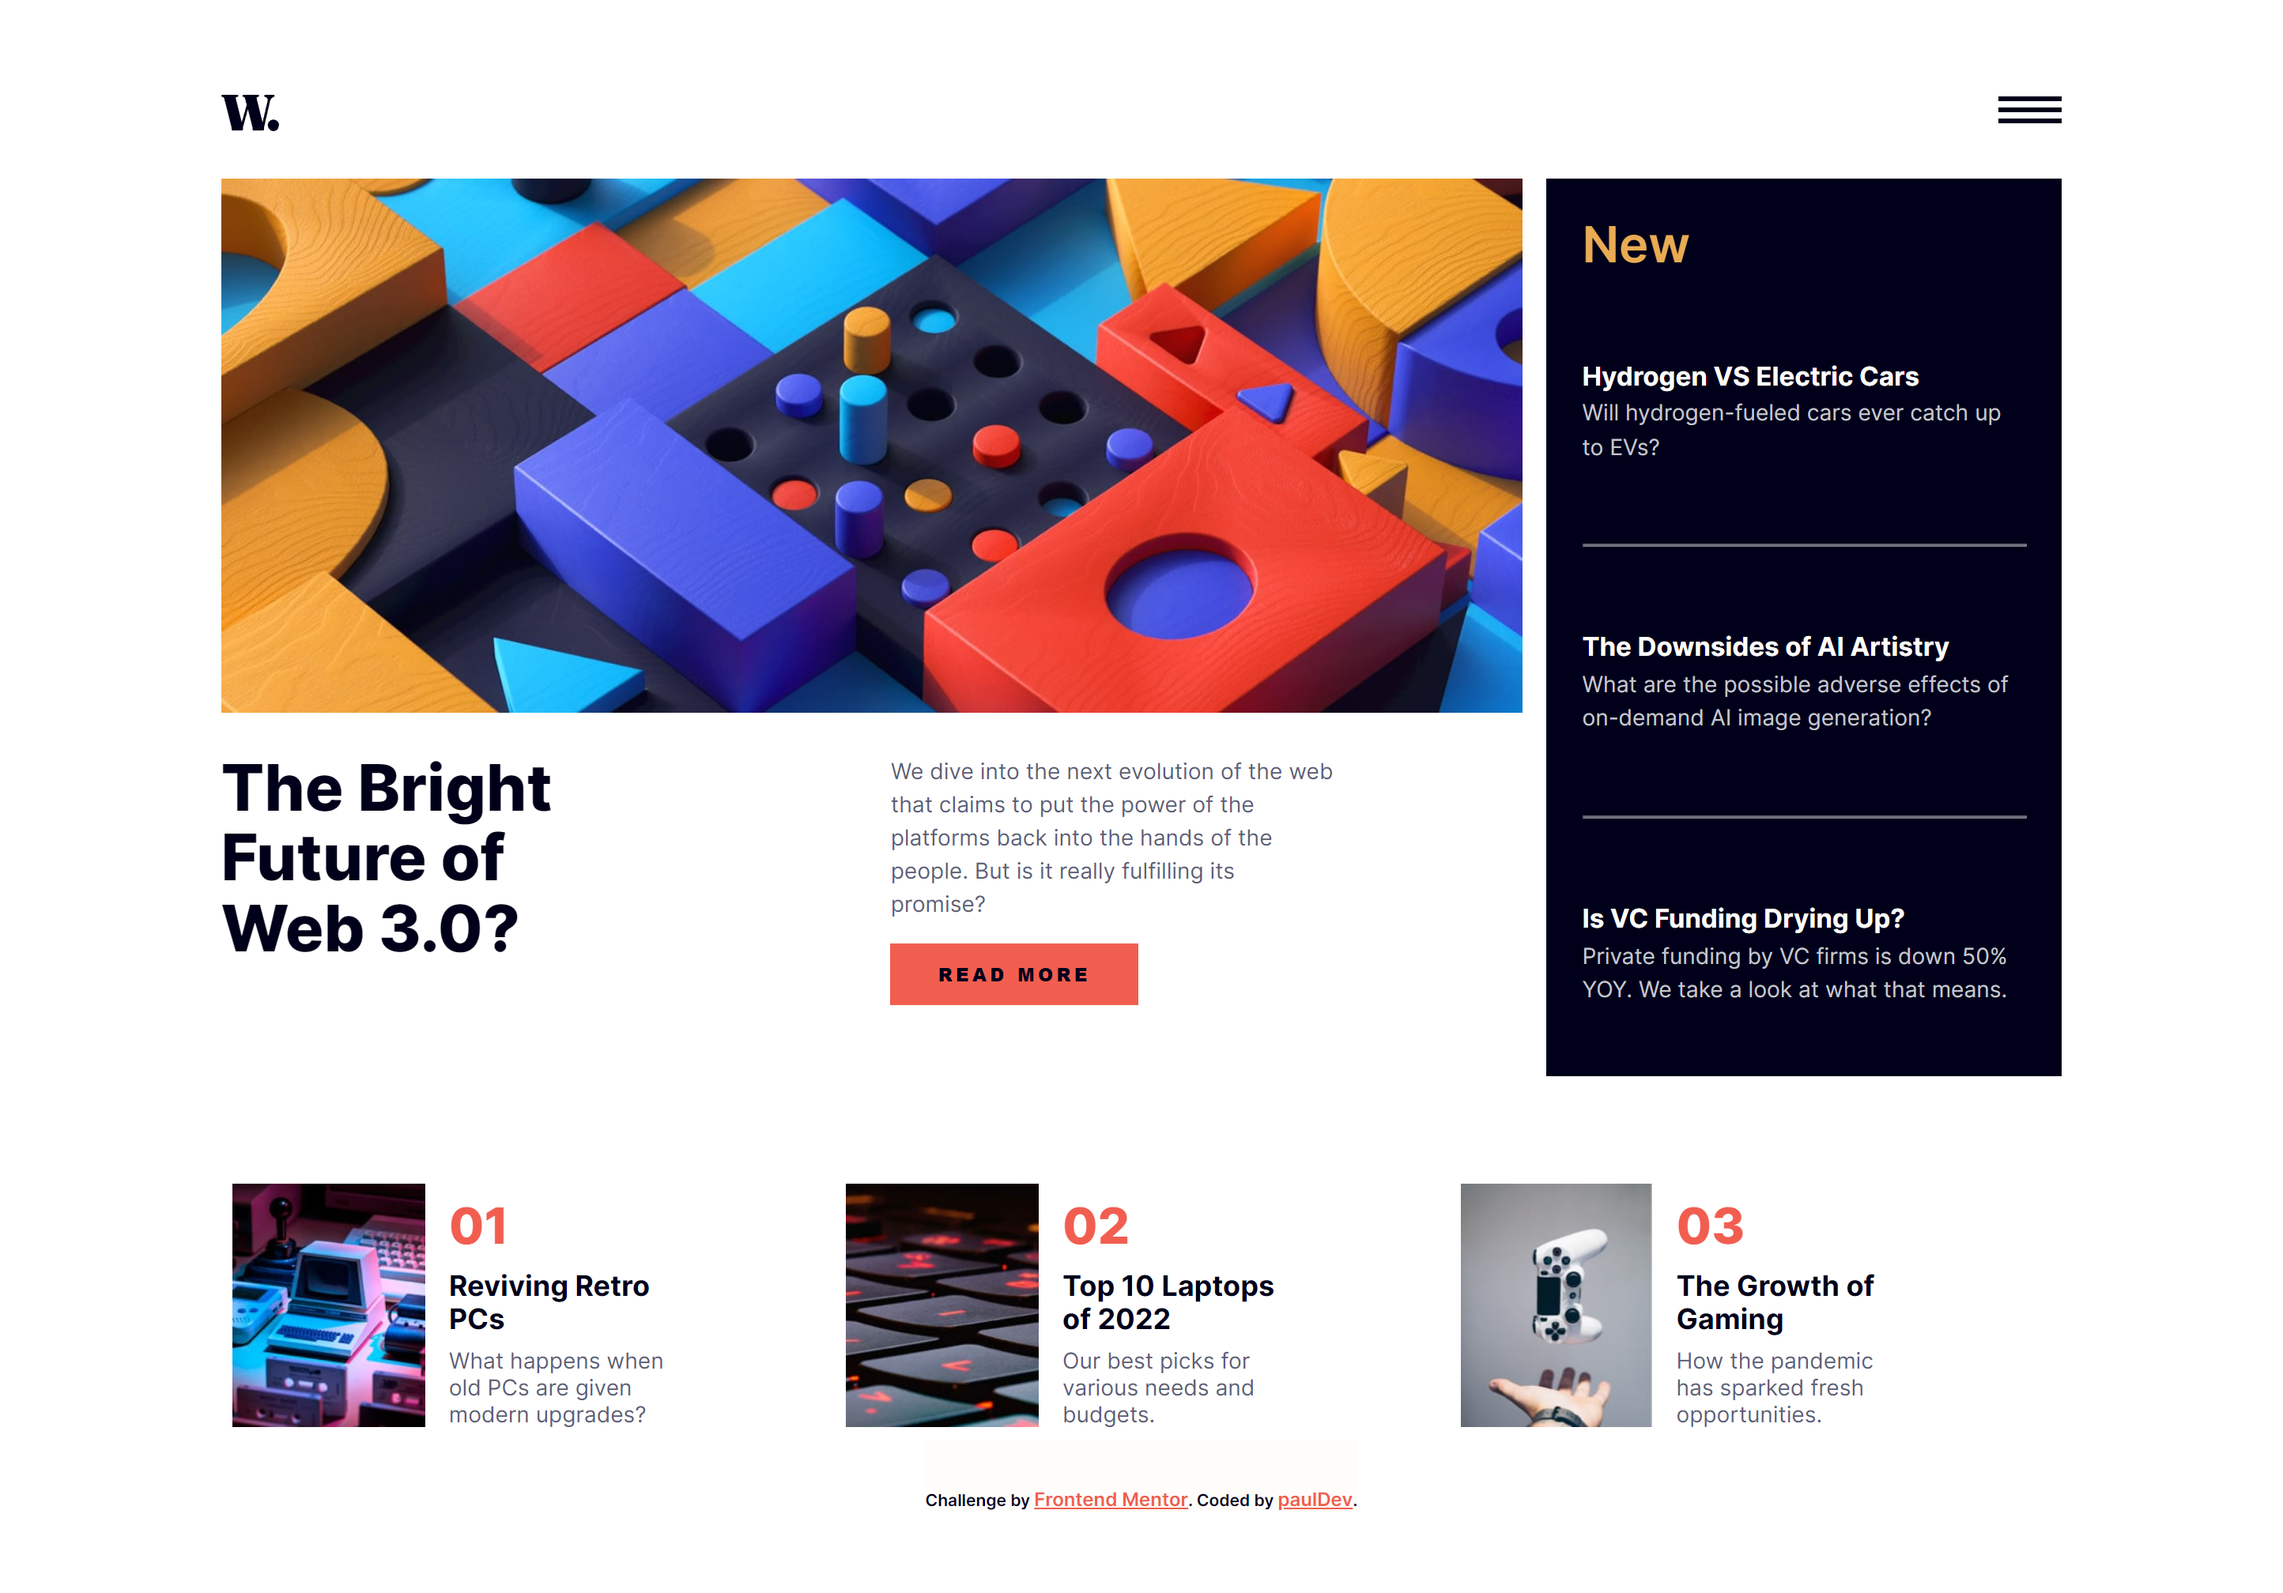
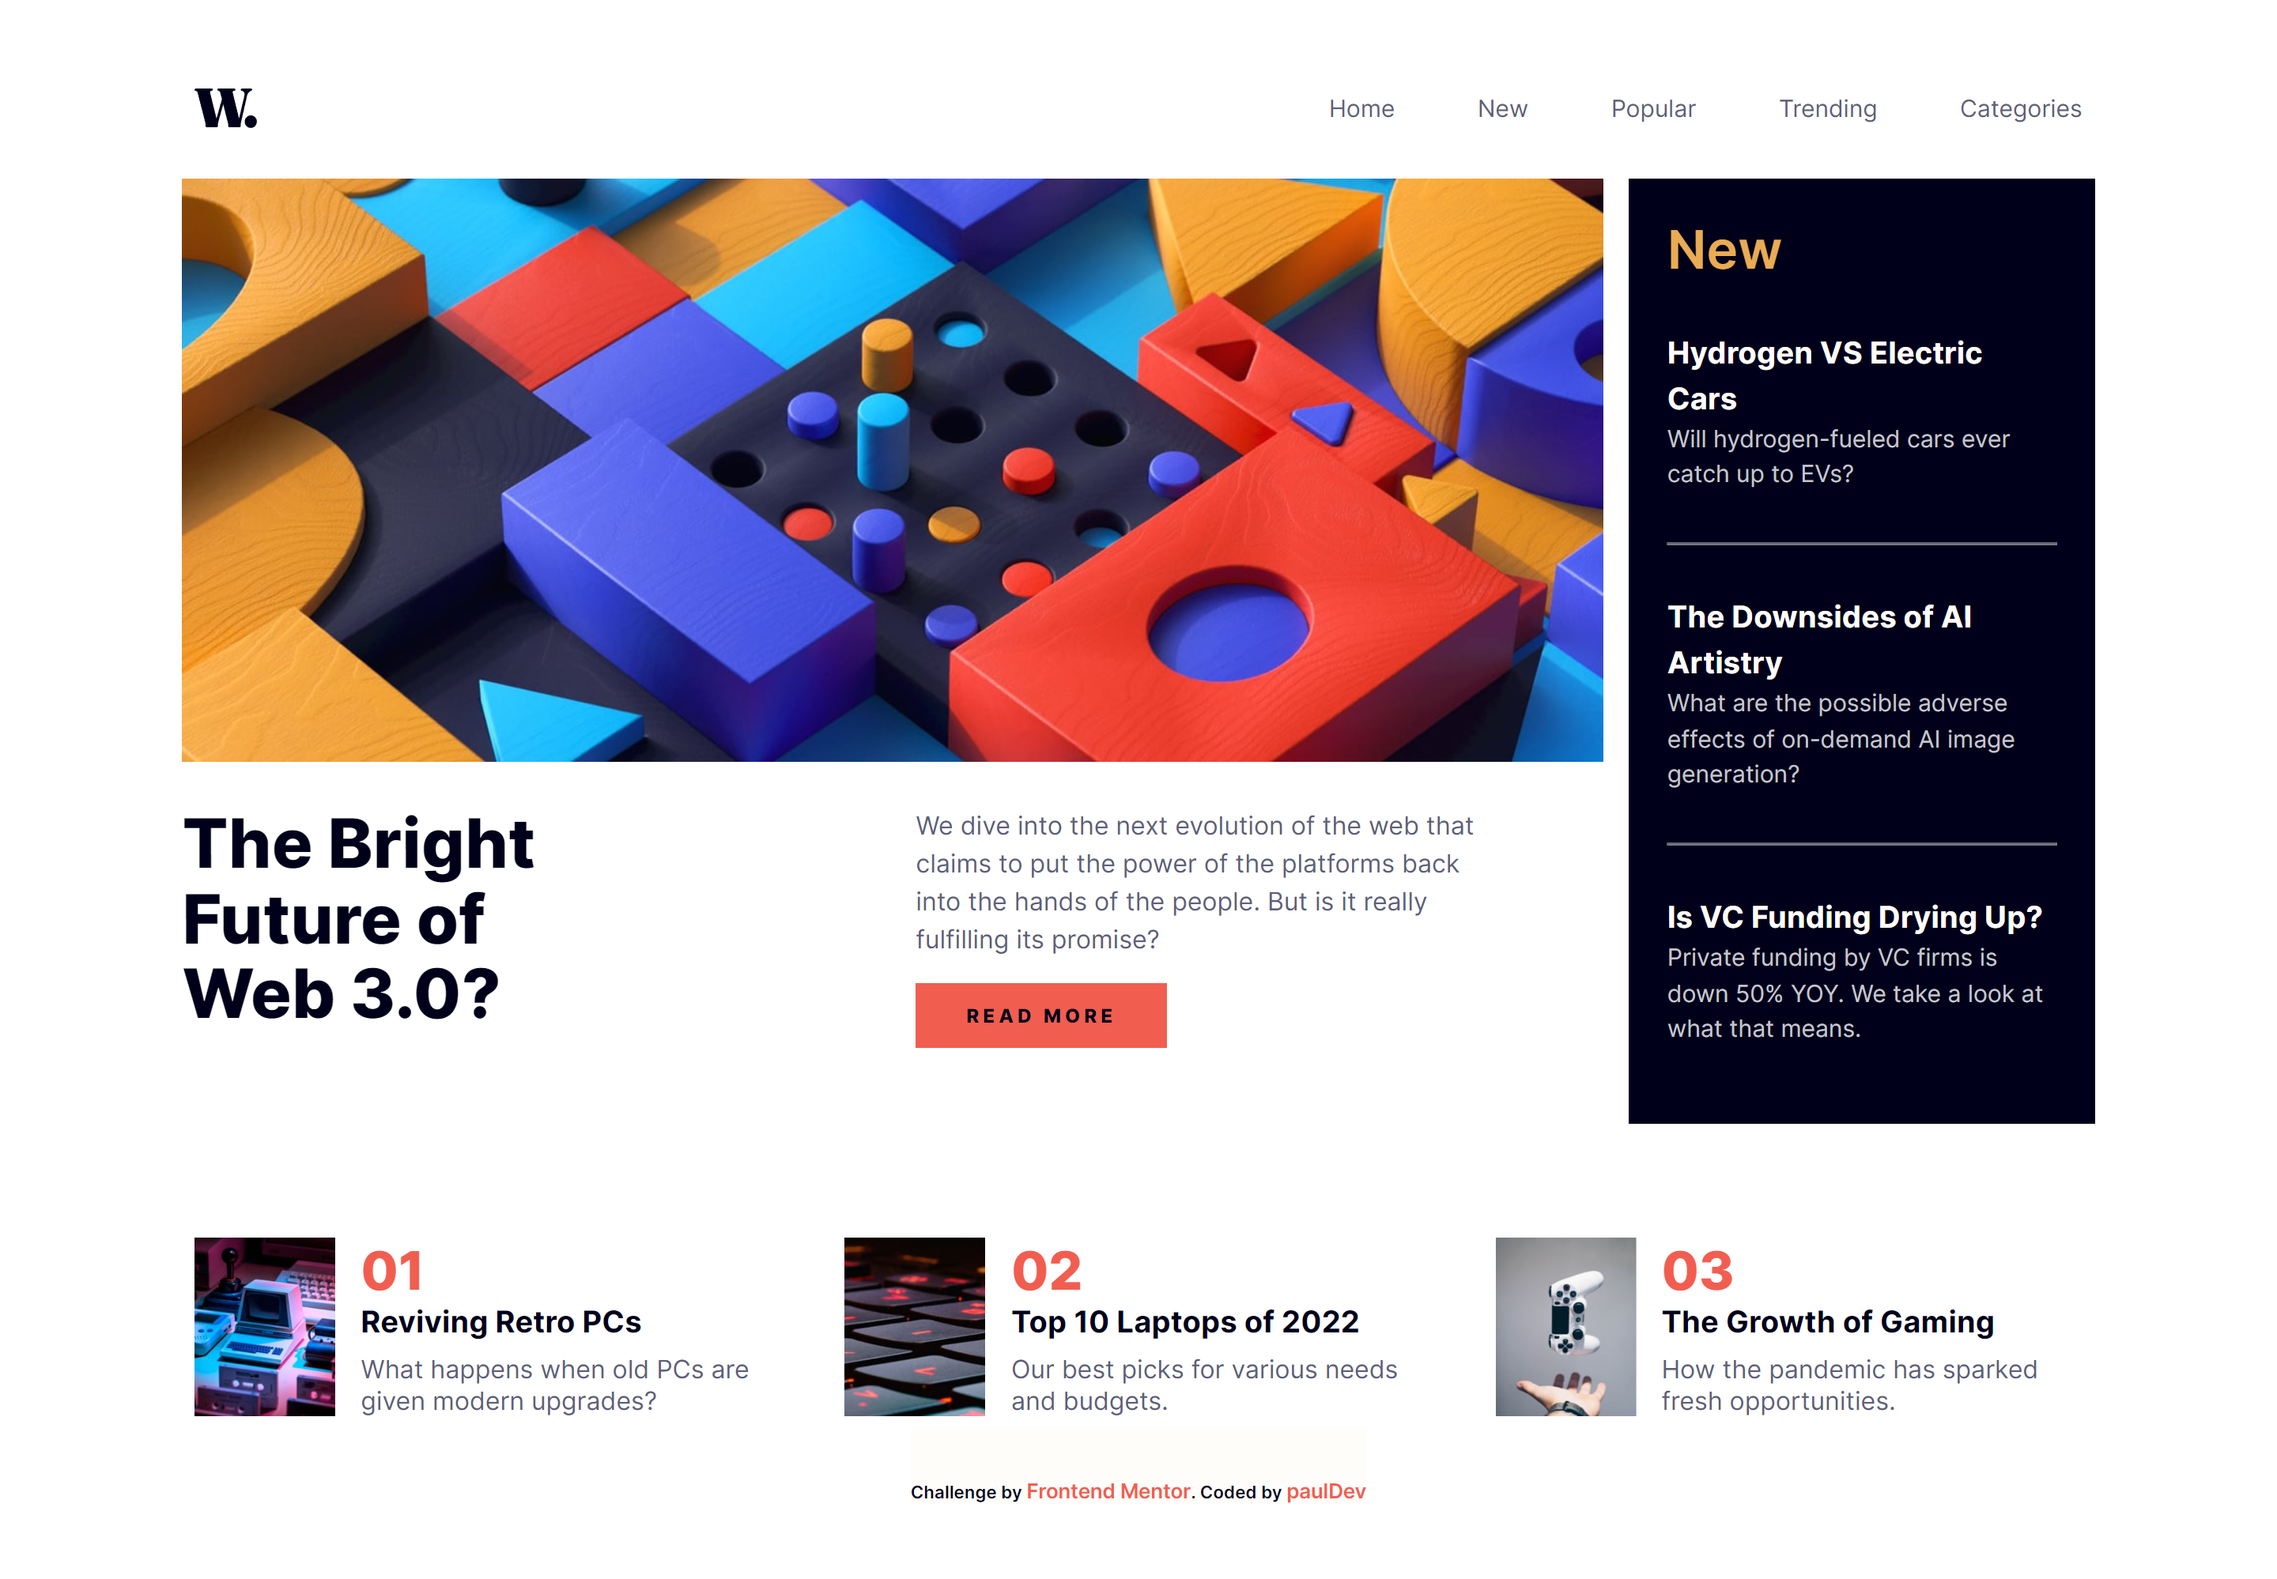
completed nav, spent time on accessibility and semantics optimisation, improved responsibility, would love feedback

diff --git a/index.html b/index.html
@@ -24,10 +24,20 @@
     <script src="main.js" defer></script>
   </head>
   <body>
-    <div class="overlay"></div>
+    <div class="overlay" aria-hidden="true"></div>
     <header role="banner">
-      <img src="assets/images/logo.svg" alt="Web 3" class="header-logo" />
-      <button class="menu_open_btn">
+      <img
+        src="assets/images/logo.svg"
+        alt="Website Logo"
+        class="header-logo"
+      />
+      <button
+        class="menu_open_btn"
+        aria-label="Open Menu"
+        aria-expanded="false"
+        aria-controls="mobile-nav"
+        aria-hidden="false"
+      >
         <img src="assets/images/icon-menu.svg" alt="Open Menu" />
       </button>
       <nav
@@ -44,8 +54,19 @@
         </ul>
       </nav>
 
-      <nav class="mobile-nav" role="navigation" aria-label="Mobile Navigation">
-        <button class="menu_close_btn">
+      <nav
+        id="mobile-nav"
+        class="mobile-nav"
+        role="navigation"
+        aria-hidden="true"
+        aria-label="Mobile Navigation"
+        aria-live="assertive"
+      >
+        <button
+          class="menu_close_btn"
+          aria-controls="mobile-nav"
+          aria-label="Close Menu"
+        >
           <img src="assets/images/icon-menu-close.svg" alt="Close Menu" />
         </button>
         <ul>
@@ -65,16 +86,21 @@
               srcset="assets/images/image-web-3-mobile.jpg"
               media="(max-width:40rem)"
             />
-            <img src="assets/images/image-web-3-desktop.jpg" alt="" />
+            <img
+              src="assets/images/image-web-3-desktop.jpg"
+              alt="The Bright Future of Web 3.0"
+            />
           </picture>
 
           <h1>The Bright Future of Web 3.0?</h1>
           <div class="main-article-content">
-            <q cite="#">
-              We dive into the next evolution of the web that claims to put the
-              power of the platforms back into the hands of the people. But is
-              it really fulfilling its promise?
-            </q>
+            <blockquote cite="#">
+              <p>
+                We dive into the next evolution of the web that claims to put
+                the power of the platforms back into the hands of the people.
+                But is it really fulfilling its promise?
+              </p>
+            </blockquote>
 
             <a href="#" class="main-article_readmore-btn">Read more</a>
           </div>
@@ -85,27 +111,33 @@
 
           <article role="article" class="new-article">
             <h3><a href="#">Hydrogen VS Electric Cars</a></h3>
-            <q cite="#">Will hydrogen-fueled cars ever catch up to EVs?</q>
+            <p>
+              <q cite="#">Will hydrogen-fueled cars ever catch up to EVs?</q>
+            </p>
           </article>
 
           <hr class="new-articles_separator" />
 
           <article role="article" class="new-article">
             <h3><a href="#">The Downsides of AI Artistry</a></h3>
-            <q cite="#">
-              What are the possible adverse effects of on-demand AI image
-              generation?
-            </q>
+            <p>
+              <q cite="#">
+                What are the possible adverse effects of on-demand AI image
+                generation?
+              </q>
+            </p>
           </article>
 
           <hr class="new-articles_separator" />
 
           <article role="article" class="new-article">
             <h3><a href="#">Is VC Funding Drying Up?</a></h3>
-            <q cite="#">
-              Private funding by VC firms is down 50% YOY. We take a look at
-              what that means.
-            </q>
+            <p>
+              <q cite="#">
+                Private funding by VC firms is down 50% YOY. We take a look at
+                what that means.
+              </q>
+            </p>
           </article>
         </div>
 
@@ -115,11 +147,13 @@
             <div class="top3-article-info">
               <p class="top3-article_position">01</p>
               <h3>
-                <a href="" class="top3-article_title">Reviving Retro PCs</a>
+                <a href="#" class="top3-article_title">Reviving Retro PCs</a>
               </h3>
-              <q cite="#" class="top3-article_content">
-                What happens when old PCs are given modern upgrades?
-              </q>
+              <p>
+                <q cite="#" class="top3-article_content">
+                  What happens when old PCs are given modern upgrades?
+                </q>
+              </p>
             </div>
           </article>
 
@@ -128,11 +162,15 @@
             <div class="top3-article-info">
               <p class="top3-article_position">02</p>
               <h3>
-                <a href="" class="top3-article_title">Top 10 Laptops of 2022</a>
+                <a href="#" class="top3-article_title"
+                  >Top 10 Laptops of 2022</a
+                >
               </h3>
-              <q cite="#" class="top3-article_content">
-                Our best picks for various needs and budgets.
-              </q>
+              <p>
+                <q cite="#" class="top3-article_content">
+                  Our best picks for various needs and budgets.
+                </q>
+              </p>
             </div>
           </article>
 
@@ -141,11 +179,13 @@
             <div class="top3-article-info">
               <p class="top3-article_position">03</p>
               <h3>
-                <a href="" class="top3-article_title">The Growth of Gaming</a>
+                <a href="#" class="top3-article_title">The Growth of Gaming</a>
               </h3>
-              <q cite="#" class="top3-article_content">
-                How the pandemic has sparked fresh opportunities.
-              </q>
+              <p>
+                <q cite="#" class="top3-article_content">
+                  How the pandemic has sparked fresh opportunities.
+                </q>
+              </p>
             </div>
           </article>
         </div>

diff --git a/style.css b/style.css
@@ -55,6 +55,7 @@ header {
   background: transparent;
   border: none;
   cursor: pointer;
+  padding: 0.5rem;
   /* max-width: fit-content; */
 }
 
@@ -94,12 +95,12 @@ h1 {
   width: fit-content;
 }
 
-.main-article_readmore-btn:hover, .main-article_readmore-btn:focus {
+.main-article_readmore-btn:hover,
+.main-article_readmore-btn:focus {
   background-color: var(--very-dark-blue);
   color: var(--off-white);
   font-weight: 600;
 }
-
 
 .new-articles-section {
   background-color: var(--very-dark-blue);
@@ -136,7 +137,8 @@ q::before,
 q::after {
   display: none;
 }
-.new-article a:hover,  .new-article a:focus {
+.new-article a:hover,
+.new-article a:focus {
   color: var(--soft-orange);
 }
 .new-article q {
@@ -169,7 +171,6 @@ q::after {
   justify-content: space-between;
 }
 
-
 .top3-article_position {
   color: var(--soft-red);
   font-size: 2.1rem;
@@ -194,7 +195,8 @@ q::after {
   margin: 1rem 0;
 }
 
-.top3-article_title:hover, .top3-article_title:focus{
+.top3-article_title:hover,
+.top3-article_title:focus {
   color: var(--soft-red);
 }
 
@@ -230,7 +232,8 @@ footer a {
   cursor: pointer;
 }
 
-.desktop-nav a:hover, .desktop-nav a:focus {
+.desktop-nav a:hover,
+.desktop-nav a:focus {
   color: var(--soft-red);
 }
 
@@ -241,23 +244,23 @@ a {
 }
 
 .mobile-nav {
-  position: absolute;
-  min-width: 60vw;
+  position: fixed;
+  min-width: 70%;
   background-color: var(--off-white);
   min-height: 100%;
   right: 0;
   top: 0;
   display: none;
   flex-flow: column;
-  z-index: 1;
-  max-width: 100%;
+  z-index: 9;
+  max-width: 19rem;
   padding: 2rem 1rem;
 }
 
 .mobile-nav button {
   max-width: auto;
   align-self: end;
-  padding-bottom: 3rem;
+  margin-bottom: 3rem;
 }
 
 .mobile-nav li {
@@ -271,24 +274,27 @@ a {
   font-weight: 500;
 }
 
-.mobile-nav a:hover, .mobile-nav a:focus {
+.mobile-nav a:hover,
+.mobile-nav a:focus {
   color: var(--soft-red);
 }
 
-a, button {
+a,
+button {
   outline: none;
 }
 
-a:focus, button:focus {
+a:focus,
+button:focus {
   outline: 1px dashed var(--very-dark-blue);
-
 }
 
 .overlay {
   display: none;
-  position: absolute;
+  position: fixed;
   top: 0;
-  z-index: 1;
+  left: 0;
+  z-index: 6;
   height: 100%;
   width: 100%;
   background-color: var(--dark-grayish-blue);

diff --git a/main.js b/main.js
@@ -1,33 +1,32 @@
-const NAVBAR_MOBILE = document.querySelector('.mobile-nav');
+const NAVBAR_MOBILE = document.querySelector(".mobile-nav");
 
-const BTN_OPEN_MENU = document.querySelector('.menu_open_btn');
-const BTN_CLOSE_MENU = document.querySelector('.menu_close_btn');
+const BTN_OPEN_MENU = document.querySelector(".menu_open_btn");
+const BTN_CLOSE_MENU = document.querySelector(".menu_close_btn");
 
-const OVERLAY = document.querySelector('.overlay');
-const BODY = document.getElementsByTagName('body')[0];
+const OVERLAY = document.querySelector(".overlay");
+const BODY = document.body;
 
-
-function openMenu() {
-   NAVBAR_MOBILE.classList.add('visible');
-   OVERLAY.classList.add('visible');
-   BODY.style.overflow = "hidden";
+const openMenu = () => {
+  NAVBAR_MOBILE.classList.add("visible");
+  OVERLAY.classList.add("visible");
+  NAVBAR_MOBILE.setAttribute("aria-hidden", false);
+  BTN_OPEN_MENU.setAttribute("aria-expanded", true);
+  BODY.style.overflow = "hidden";
+  BTN_CLOSE_MENU.focus();
 }
 
-function closeMenu() {
-   NAVBAR_MOBILE.classList.remove('visible');
-   OVERLAY.classList.remove('visible');
-   BODY.style.overflow = "auto";
+const closeMenu = () => {
+  NAVBAR_MOBILE.classList.remove("visible");
+  OVERLAY.classList.remove("visible");
+  BODY.style.overflow = "auto";
+  NAVBAR_MOBILE.setAttribute("aria-hidden", true);
+  BTN_OPEN_MENU.setAttribute("aria-expanded", false);
+  BTN_OPEN_MENU.focus();
 }
 
-BTN_CLOSE_MENU.addEventListener('click', () => {
-    closeMenu();
-});
+BTN_CLOSE_MENU.addEventListener("click", closeMenu);
 
-BTN_OPEN_MENU.addEventListener('click', () => {
-    openMenu();
-});
+BTN_OPEN_MENU.addEventListener("click", openMenu);
 
 /* I personally hate when we click on the 'overlay' and it doesn't exit the popup or menu or whatever */
-OVERLAY.addEventListener('click', () => {
-    closeMenu();
-});
+OVERLAY.addEventListener("click", closeMenu);

diff --git a/README.md b/README.md
@@ -16,6 +16,7 @@ Users should be able to:
 ### Screenshot
 
 ![](./screenshot_mobile.png)
+![](./screenshot_mobile_nav.png)
 ![](./screenshot_desktop.png)
 
 ### Links
@@ -27,12 +28,11 @@ Users should be able to:
 
 🛑🛑🛑 WORK IN PROGRESS 🛑🛑🛑
 
-- Started by analyzing the screenshots and think about how to structure the grids and flex-boxes. 
-- Realized the mobile design first
+- Started by analyzing the screenshots and thinking about how to structure the layout
+- Designed mobile version first
 - Adapted the page to desktop-sized window. 
-- Had fun with grids and flexboxes 👍
-
-I will do the nav and the last adjustments in the end.
+- Built the navigation bar
+- Optimized accessibility
 
 ### Built with
 
